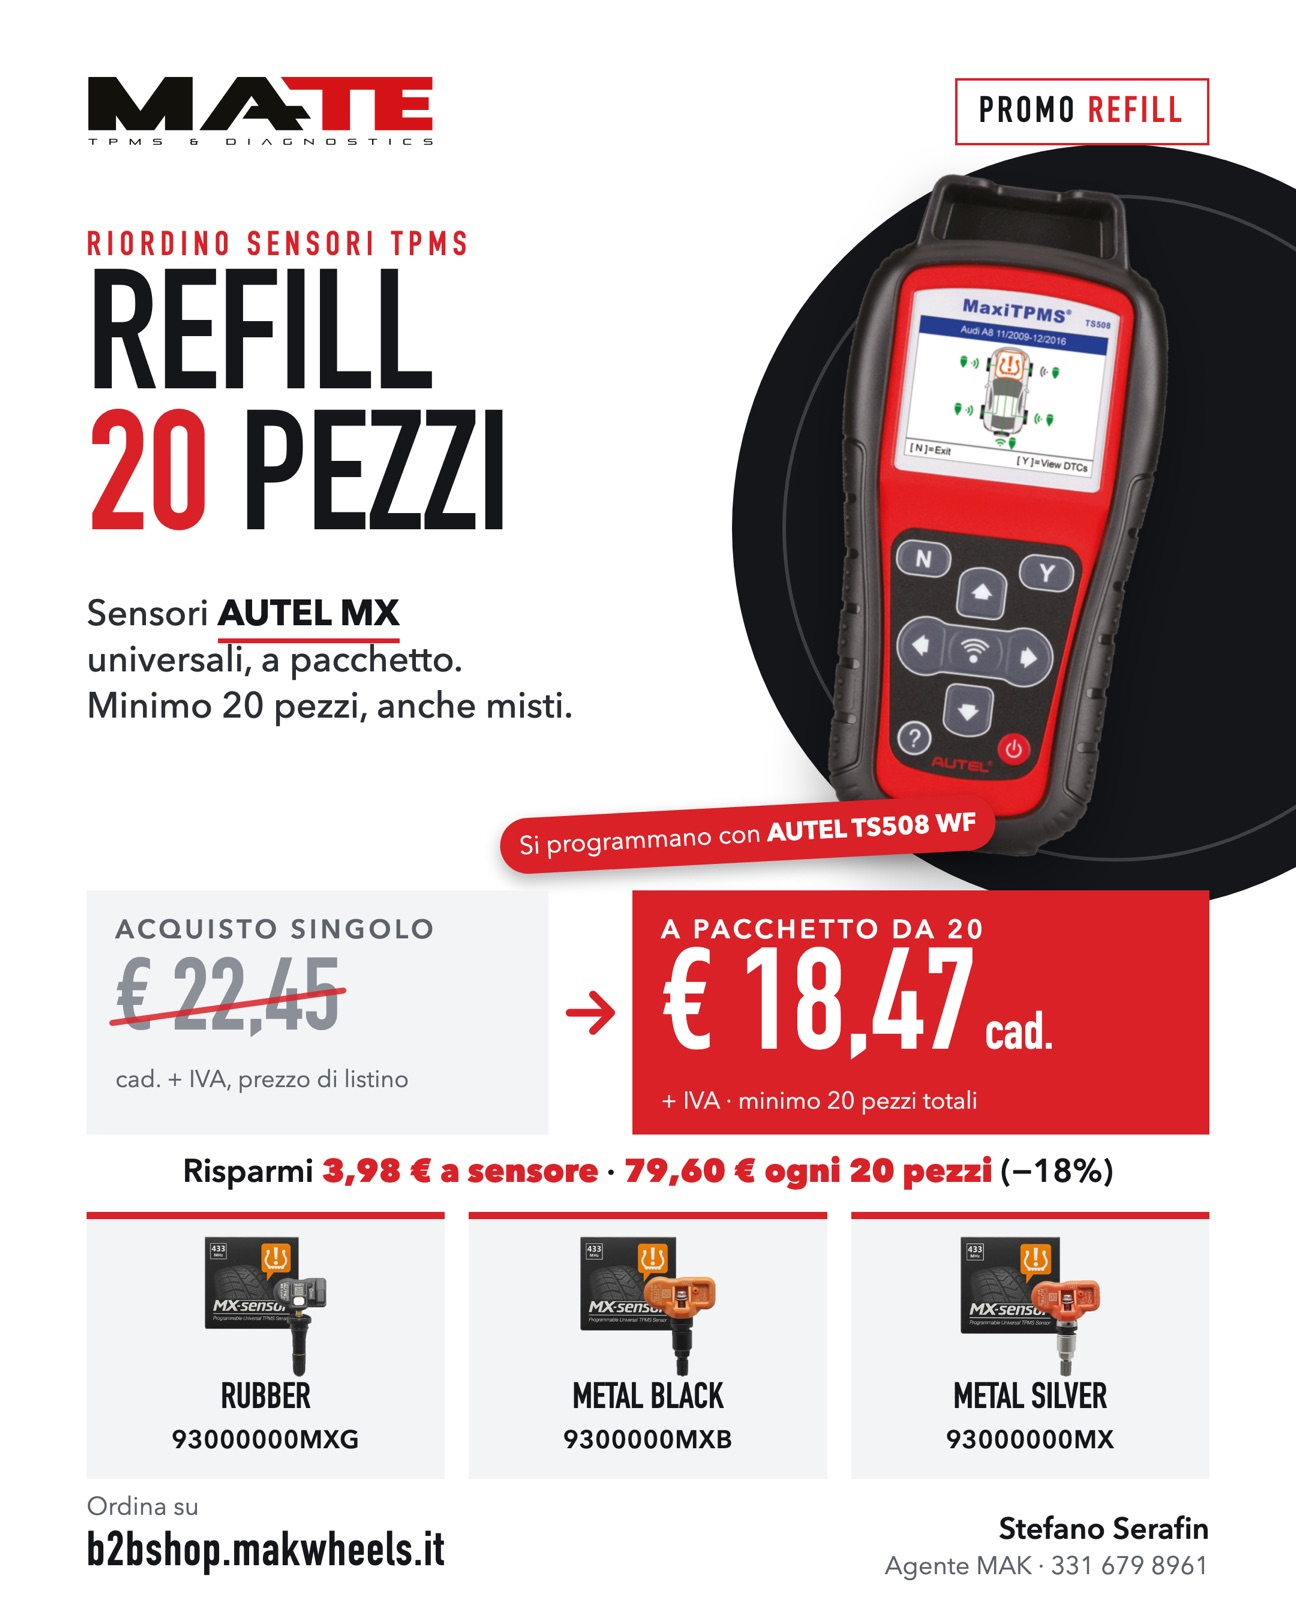
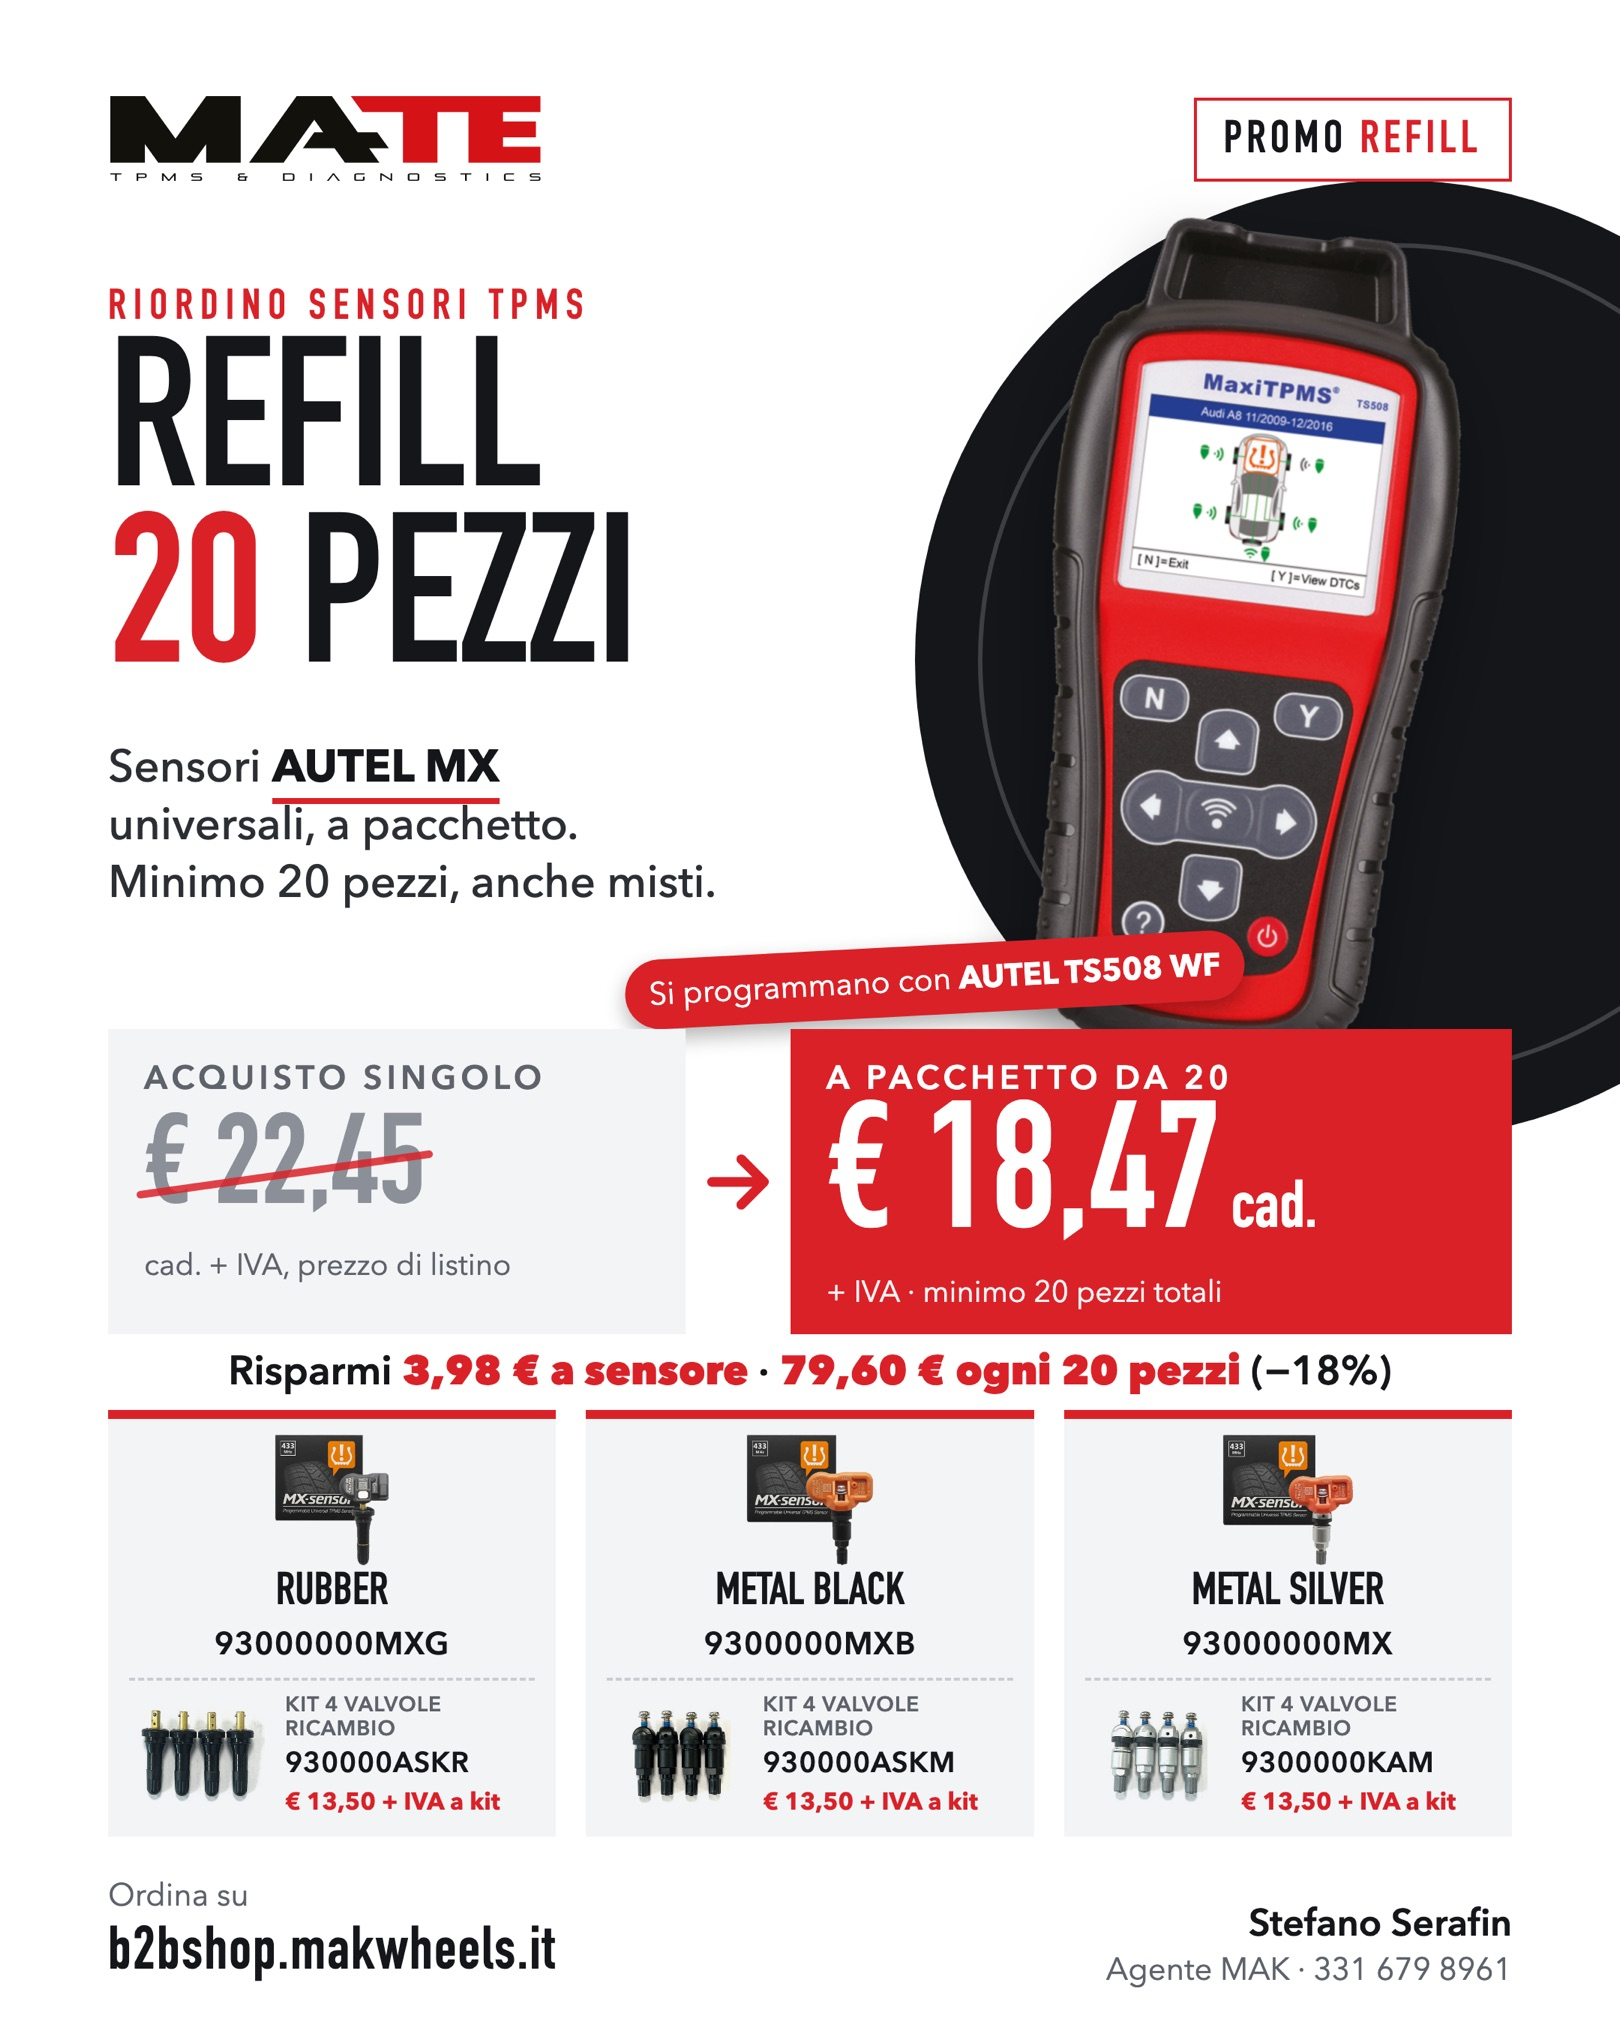
Refill AUTEL MX: kit valvole di ricambio ASKR, ASKM, KAM a 13,50 € + IVA

Changed region(s): [[0.0617, 0.463, 0.9568, 0.8951], [0.0617, 0.9259, 0.3395, 0.9877], [0.679, 0.9259, 0.9259, 0.9877]]

diff --git a/refill-autel-mx/index.html b/refill-autel-mx/index.html
@@ -88,6 +88,10 @@ input[type=text]{width:100%;font:inherit;font-size:17px;color:var(--ink);backgro
 .salta{animation:salta .45s}
 @keyframes salta{30%{transform:scale(1.03)}60%{transform:scale(.99)}}
 
+/* ricambi valvole */
+.ric .riga img{width:88px;height:70px;object-fit:contain;background:#fff;border-radius:10px;padding:4px}
+.ric .riga small{display:block;font-size:12px;color:var(--mute);margin-top:2px}
+
 /* strumento */
 .ma{display:grid;grid-template-columns:1fr 130px;gap:12px;align-items:center;background:var(--card);border-radius:16px;padding:16px;overflow:hidden}
 .ma img{width:130px;height:auto;display:block;transform:rotate(6deg);filter:drop-shadow(0 10px 12px rgba(0,0,0,.3))}
@@ -156,6 +160,12 @@ footer b{color:var(--ink)}
 </section>
 
 <section>
+  <h2>Valvole di <em>ricambio</em></h2>
+  <p class="sub">Le scatoline con 4 valvole per cambiare la valvola al sensore, una per versione. 13,50 € + IVA a kit. Non contano per i 20 pezzi del refill.</p>
+  <div class="card ric" id="ricambi"></div>
+</section>
+
+<section>
   <div class="ma">
     <div>
       <b>Si programmano con <span style="color:var(--red)">AUTEL TS508 WF</span></b>
@@ -185,6 +195,12 @@ const SENSORI = [
   {cod:"9300000MXB", nome:"Metal Black", desc:"valvola metallo nera", img:"mx-black.png"},
   {cod:"93000000MX", nome:"Metal Silver", desc:"valvola metallo silver", img:"mx-silver.png"}
 ];
+const RICAMBI = [
+  {cod:"930000ASKR", nome:"Rubber", desc:"kit 4 valvole in gomma · 13,50 € + IVA", img:"930000ASKR.jpg"},
+  {cod:"930000ASKM", nome:"Metal Black", desc:"kit 4 valvole metallo nero · 13,50 € + IVA", img:"930000ASKM.jpg"},
+  {cod:"9300000KAM", nome:"Metal Silver", desc:"kit 4 valvole metallo · 13,50 € + IVA", img:"9300000KAM.jpg"}
+];
+const PREZZO_KIT = 13.50;
 const PROMO = {minimo: 20, refill: 18.47, singolo: 22.45, telefono: "393316798961"};
 
 document.addEventListener("DOMContentLoaded", () => {
@@ -207,6 +223,26 @@ document.addEventListener("DOMContentLoaded", () => {
     campi.push({riga: d, campo});
     $("righe").appendChild(d);
   });
+  /* ricambi valvole: confezioni, fuori dal minimo del refill */
+  const kit = RICAMBI.map(() => 0);
+  const campiR = [];
+  RICAMBI.forEach((s, i) => {
+    const d = document.createElement("div");
+    d.className = "riga";
+    d.innerHTML = '<img alt="" src="' + s.img + '"><div><h3>' + s.nome + '</h3><div class="c">' + s.cod + '</div><small>' + s.desc + '</small></div>' +
+      '<div class="qta"><button type="button" aria-label="Meno">−</button><input type="number" inputmode="numeric" min="0" max="999" value="0" aria-label="Confezioni ricambio ' + s.nome + '"><button type="button" aria-label="Più">+</button></div>';
+    const [meno, campo, piu] = d.querySelector(".qta").children;
+    const agg = (tast) => { campiR.forEach((c, k) => { if (!tast || document.activeElement !== c.campo) c.campo.value = kit[k]; c.riga.classList.toggle("on", kit[k] > 0); }); aggiornaWa(); };
+    meno.addEventListener("click", () => { if (kit[i] > 0) { kit[i]--; agg(); } });
+    piu.addEventListener("click", () => { if (kit[i] < 999) { kit[i]++; agg(); } });
+    campo.addEventListener("focus", () => campo.select());
+    campo.addEventListener("input", () => { kit[i] = Math.min(999, Math.max(0, parseInt(campo.value, 10) || 0)); agg(true); });
+    campiR.push({riga: d, campo});
+    $("ricambi").appendChild(d);
+  });
+  const righeKit = () => RICAMBI.map((s, i) => kit[i] ? "• " + s.cod + " ricambio " + s.nome + " (kit 4 valvole): " + kit[i] + " conf. × 13,50 €" : "").filter(Boolean);
+  const totKit = () => kit.reduce((a, b) => a + b, 0) * PREZZO_KIT;
+
   document.querySelectorAll("[data-i]").forEach(b => b.addEventListener("click", () => { pz[+b.dataset.i] += 20; aggiorna(); }));
   document.querySelector("[data-azzera]").addEventListener("click", () => { pz.fill(0); aggiorna(); });
   $("officina").addEventListener("input", aggiornaWa);
@@ -244,7 +280,7 @@ document.addEventListener("DOMContentLoaded", () => {
   }
 
   function aggiornaWa() {
-    const n = totale();
+    const n = totale(), rk = righeKit();
     let testo, etichetta;
     if (n) {
       const off = $("officina").value.trim();
@@ -252,8 +288,12 @@ document.addEventListener("DOMContentLoaded", () => {
         SENSORI.map((s, i) => pz[i] ? "• " + s.cod + " " + s.nome + ": " + pz[i] + " pz" : "").filter(Boolean).join("\n") +
         "\nTotale: " + n + " pz" +
         (n >= PROMO.minimo ? " a 18,47 € cad. + IVA" : " (sotto il minimo di 20 per il prezzo refill)") +
+        (rk.length ? "\n\nValvole di ricambio:\n" + rk.join("\n") + "\nTotale ricambi: " + euro(totKit()) + " + IVA" : "") +
         "\n\nOfficina: " + off;
       etichetta = n >= PROMO.minimo ? "Invia l'ordine su WhatsApp" : "Invia (ne mancano " + (PROMO.minimo - n) + " al refill)";
+    } else if (rk.length) {
+      testo = "Ciao Stefano, vorrei ordinare le valvole di ricambio AUTEL MX:\n" + rk.join("\n") + "\nTotale: " + euro(totKit()) + " + IVA\n\nOfficina: " + $("officina").value.trim();
+      etichetta = "Invia l'ordine su WhatsApp";
     } else {
       testo = "Ciao Stefano, ho visto la promo Refill AUTEL MX a 18,47 €. Mi dai qualche informazione?";
       etichetta = "Scrivimi su WhatsApp";
